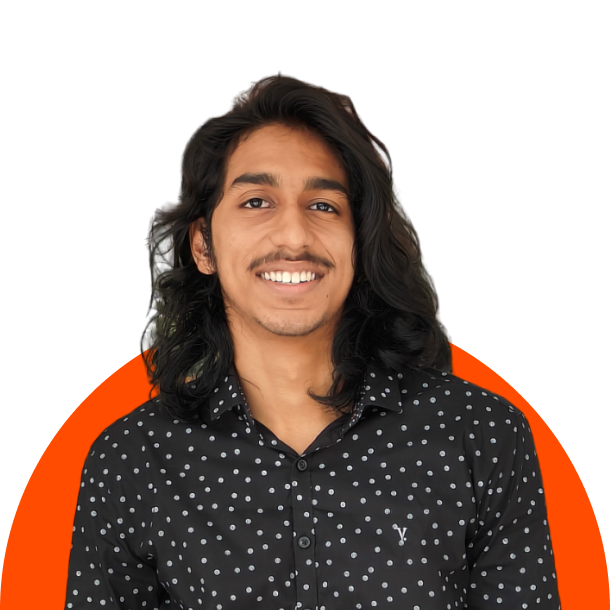
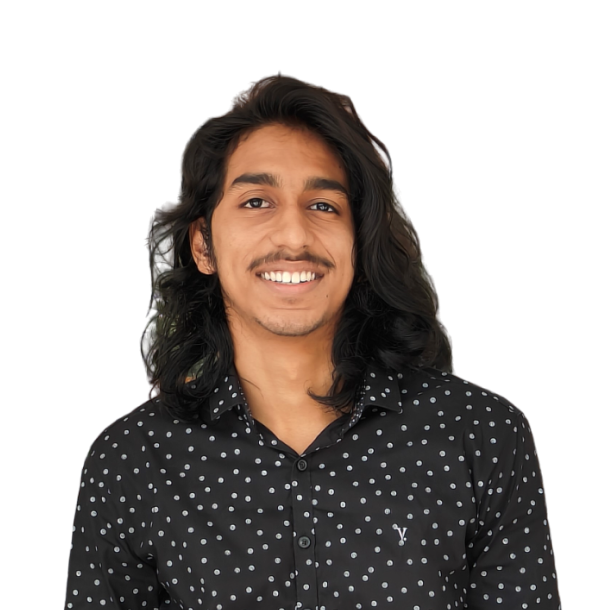
Execom Card and page

Changed region(s): [[0.0, 0.5607, 0.2803, 1.0], [0.7164, 0.5607, 1.0, 1.0]]

diff --git a/pages/Execom/cards/Execom.module.css b/pages/Execom/cards/Execom.module.css
@@ -1,0 +1,124 @@
+.main {
+  width: 18vw;
+  height: 23vw;
+  border-radius: 15px;
+}
+
+.main:hover {
+  /* border: 1px solid; */
+  box-shadow: 0px 0px 10px rgba(255, 255, 255, 0.5);
+}
+
+.image {
+  height: 60%;
+  position: relative;
+  display: flex;
+  justify-content: center;
+}
+
+.execomSphere {
+  width: 70%;
+  position: absolute;
+  align-self: flex-end;
+}
+
+.execomPerson {
+  height: 99%;
+  position: absolute;
+  align-self: flex-end;
+  filter: grayscale(100%);
+}
+
+.execomPerson:hover {
+  filter: grayscale(0%);
+}
+
+.textContainer {
+  height: 30%;
+  margin-top: 3%;
+  font-size: 0.4em;
+  display: flex;
+  flex-direction: column;
+  align-items: center;
+  justify-content: space-evenly;
+}
+
+.name {
+  font-weight: 700;
+  font-size: 1.1em;
+}
+
+.linkSpace {
+  display: flex;
+  justify-content: space-between;
+  align-items: center;
+  width: 20%;
+}
+
+.socialLinks {
+  background-color: 0;
+}
+
+@media screen and (max-width: 768px) {
+  .main {
+    width: 58vw;
+    height: 63vw;
+    margin: auto;
+    border-radius: 15px;
+  }
+
+  .image {
+    height: 65%;
+    position: relative;
+    display: flex;
+    justify-content: center;
+  }
+
+  .execomSphere {
+    width: 75%;
+    position: absolute;
+    align-self: flex-end;
+  }
+
+  .execomPerson {
+    height: 100%;
+    position: absolute;
+    align-self: flex-end;
+  }
+
+  .textContainer {
+    height: 30%;
+    margin-top: 3%;
+    font-size: 0.4em;
+    display: flex;
+    flex-direction: column;
+    align-items: center;
+    justify-content: space-evenly;
+  }
+
+  .name {
+    font-weight: 700;
+    font-size: 2.5em;
+  }
+
+  .pos {
+    font-weight: 600;
+    font-size: 2em;
+  }
+
+  .linkSpace {
+    display: flex;
+    justify-content: space-between;
+    align-items: center;
+    width: 20%;
+  }
+
+  .socialLinks {
+    width: 10px;
+    height: auto;
+  }
+
+  .socialLinks img {
+    width: 20px;
+  }
+}

diff --git a/pages/Execom/cards/ExeCard.jsx b/pages/Execom/cards/ExeCard.jsx
@@ -1,0 +1,27 @@
+//import execomSphere from "../public/execomSphere.png";
+import styles from "./Execom.module.css";
+
+const ExeCard = ({ img, name, pos }) => {
+  return (
+    <div className={styles.main}>
+      <div className={styles.image}>
+        <img src="/execomSphere.png" className={styles.execomSphere} />
+        <img src={img} className={styles.execomPerson} />
+      </div>
+      <div className={styles.textContainer}>
+        <div className={styles.name}>{name}</div>
+        <div className={styles.pos}>{pos}</div>
+        <div className={styles.linkSpace}>
+          <a className={styles.socialLinks}>
+            <img alt="" src="icon/Ldin.png" />
+          </a>
+          <a className={styles.socialLinks}>
+            <img alt="" src="icon/inst.png" />
+          </a>
+        </div>
+      </div>
+    </div>
+  );
+};
+
+export default ExeCard;

diff --git a/pages/Execom/cards/core.jsx b/pages/Execom/cards/core.jsx
@@ -1,0 +1,35 @@
+import { coreTeamData } from "../../../Data/Execom/2024";
+import ExeCard from "./ExeCard";
+
+const CoreTeam = () => {
+  const generateCards = () =>
+    coreTeamData.map((item) => (
+      <ExeCard key={item.id} img={item.img} name={item.name} pos={item.pos} />
+    ));
+
+  return (
+    <>
+      <h1>Core Team</h1>
+      <div
+        style={{
+          display: "flex",
+          justifyContent:
+            window.innerHeight > window.innerWidth
+              ? "flex-start"
+              : "space-around",
+          width: "80vw",
+          alignItems: "center",
+          // overflowX: "scroll",
+          flexWrap: "wrap",
+          // scrollbar-width: "none",
+          paddingLeft:"10vw",
+          paddingRight:"10vw"
+        }}
+      >
+        {generateCards()}
+      </div>
+    </>
+  );
+};
+
+export default CoreTeam;

diff --git a/Data/Execom/2024.js b/Data/Execom/2024.js
@@ -1,0 +1,44 @@
+export const coreTeamData = [
+  {
+    id: 1,
+    name: "Joyal George Jacob",
+    img: "/execom/2024/joyal.png",
+    pos: "Kochi HSR",
+  },
+  {
+    id: 2,
+    name: "Joyal George Jacob",
+    img: "/execom/2024/joyal.png",
+    pos: "Kochi HSR",
+  },
+  {
+    id: 3,
+    name: "Joyal George Jacob",
+    img: "/execom/2024/joyal.png",
+    pos: "Kochi HSR",
+  },
+  {
+    id: 4,
+    name: "Joyal George Jacob",
+    img: "/execom/2024/joyal.png",
+    pos: "Kochi HSR",
+  },
+  {
+    id: 5,
+    name: "Joyal George Jacob",
+    img: "/execom/2024/joyal.png",
+    pos: "Kochi HSR",
+  },
+  {
+    id: 6,
+    name: "Joyal George Jacob",
+    img: "/execom/2024/joyal.png",
+    pos: "Kochi HSR",
+  },
+  {
+    id: 7,
+    name: "Joyal George Jacob",
+    img: "/execom/2024/joyal.png",
+    pos: "Kochi HSR",
+  },
+];

diff --git a/pages/Execom/execom.jsx b/pages/Execom/execom.jsx
@@ -1,18 +1,15 @@
 import ExecomCard from "../../components/ExecomCard";
 import styles from "./Execom.module.css";
-import ExeCard from "../../components/ExeCard";
+import ExeCard from "./cards/ExeCard";
+import CoreTeam from "./cards/core";
 function Execom() {
   return (
     <div className={styles.main}>
       <div className={styles.execomImg}>
         <img className={styles.image} src="/execom.png" alt="" />
       </div>
-      <div>
-        <h1>Core Team</h1>
-      </div>
-      <ExecomCard />
-      <ExeCard />
-
+      <CoreTeam />
+      <CoreTeam />
     </div>
   );
 }
